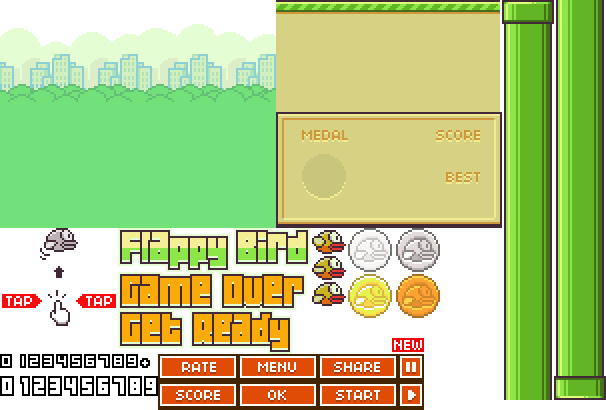
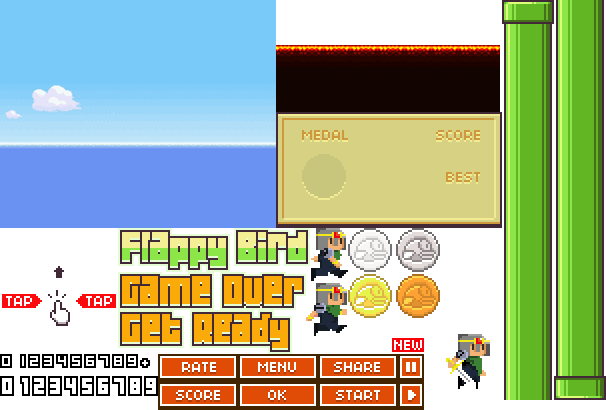
flappy game

diff --git a/index.html b/index.html
@@ -7,23 +7,270 @@
 		<meta name="apple-mobile-web-app-capable" content="yes" />
 		<meta name="mobile-web-app-capable" content="yes" />
 
-		<title>FlappyJS</title>
+		<title>Patrick JS Game</title>
 
 		<script src="sprite.js"></script>
 
 		<style>
-		canvas {
-			display: block;
-			position: absolute;
-			margin: auto;
-			top: 0;
-			bottom: 0;
-			left: 0;
-			right: 0;
-		}
+			body {
+				font-family: sans-serif;
+				color: #383838;
+			}
+
+			header h1, h2 {
+				text-align: center;
+			}
+
+			canvas {
+				display: block;
+				position: absolute;
+				margin: auto;
+				top: 0;
+				bottom: 0;
+				left: 0;
+				right: 0;
+			}
 		</style>
 	</head>
 	<body>
-		<script src="logic.js"></script>
+		<script>
+			var
+
+			canvas,
+			ctx,
+			width,
+			height,
+
+			fgPos = 0,
+			frames = 0,
+			score = 0,
+			best = localStorage.getItem("best") || 0,
+
+			currentState,
+			states = {
+				Splash: 0,
+				Game: 1,
+				Score: 2
+			},
+
+			okbtn,
+
+			bird = {
+
+				x: 50,
+				y: 0,
+
+				frame: 0,
+				velocity: 0,
+				animation: [0, 1],
+
+				rotation: 0,
+				radius: 20,
+
+				gravity: 0.25,
+				_jump: 4.8,
+
+				jump: function() {
+					this.velocity = -this._jump;
+				},
+
+				update: function() {
+			        var n = currentState === states.Splash ? 10 : 5;
+			        this.frame += frames % n === 0 ? 1 : 0;
+			        this.frame %= this.animation.length;
+
+			        if(currentState === states.Splash) {
+			            this.y = height - 400 + 5 * Math.cos(frames / 10);
+			            this.rotation = 0;
+			        } else {
+			        	this.velocity += this.gravity;
+			        	this.y += this.velocity;
+
+			        	if(this.y >= height - s_fg.height - 10) {
+			        		this.y = height - s_fg.height - 10;
+			        		if(currentState === states.Game) {
+			        			currentState = states.Score;
+			        		}
+			        		this.velocity = this._jump;
+			        	}
+
+			        	if(this.velocity >= this._jump) {
+			        		this.frame = 1;
+			        		// this.rotation = Math.min(Math.PI / 2, this.rotation + 0.1);	
+			        	} else {
+			        		this.rotation = -0.1;
+			        	}
+			        }
+				},
+
+				draw: function(ctx) {
+			        ctx.save();
+			        ctx.translate(this.x, this.y);
+			        ctx.rotate(this.rotation);
+
+			        var n = this.animation[this.frame];
+			        s_bird[n].draw(ctx, -s_bird[n].width / 2, s_bird[n].height / 2);
+
+			        ctx.fillStyle = "red";
+			        ctx.beginPath();
+			        ctx.arc(0, 0, this.radius, 0, 2 * Math.PI);
+			        ctx.stroke();
+			        ctx.fill();
+			        ctx.restore();
+				}
+			},
+
+			pipes = {
+
+				_pipes: [],
+
+				reset: function() {
+					this._pipes = [];
+				},
+
+				update: function() {
+					if(frames % 100 === 0) {
+						var _y = height - (s_pipeSouth.height + s_fg.height + 120 + 200 * Math.random());
+						this._pipes.push({
+							x: 500,
+							y: _y,
+							width: s_pipeSouth.width,
+							height: s_pipeSouth.height 
+						});
+					}
+
+					for(var i = 0, len = this._pipes.length; i < len; i++) {
+						var p = this._pipes[i];
+
+						if(i === 0) {
+							var cx = Math.min(Math.max(bird.x, p.x), p.x + p.width);
+							var cy1 = Math.min(Math.max(bird.y, p.y), p.y + p.height);
+							var cy2 = Math.min(Math.max(bird.y, p.y + p.height + 140), p.y + 2 * p.height + 140);
+
+							var dx = bird.x - cx;
+							var dy1 = bird.y - cy1;
+							var dy2 = bird.y - cy2;
+
+							var d1 = dx * dx + dy1 * dy1;
+							var d2 = dx * dx + dy2 * dy2;
+
+							var r = bird.radius * bird.radius;
+
+							if(r > d1 || r > d2) {
+								currentState = states.Score;
+							}
+						}
+
+						p.x -= 2;
+						if(p.x < -50) {
+							this._pipes.splice(i, 1);
+							i--;
+							len--;
+						}
+					}
+				},
+
+				draw: function(ctx) {
+					for(var i = 0, len = this._pipes.length; i < len; i++) {
+						var p = this._pipes[i];
+						s_pipeSouth.draw(ctx, p.x, p.y);
+						s_pipeNorth.draw(ctx, p.x, p.y + 140 + p.height);
+					}
+				}
+			};
+
+			function onPress(evt) {
+				switch(currentState) {
+					case states.Splash:
+						currentState = states.Game;
+						bird.jump();
+						break;
+					case states.Game:
+						bird.jump();
+						break;
+					case states.Score:
+						break;
+				}
+			}
+
+			function main() {
+				canvas = document.createElement("canvas");
+
+				width = window.innerWidth;
+				height = window.innerHeight;
+
+				var evt = "touchstart";
+
+				if(width >= 500) {
+					width = 320;
+					height = 480;
+					canvas.style.border = "1px solid #383838";
+					evt = "mousedown";
+				}
+
+				document.addEventListener(evt, onPress);
+
+				canvas.width = width;
+				canvas.height = height;
+				ctx = canvas.getContext("2d");
+
+			    currentState = states.Splash;
+
+				document.body.appendChild(canvas);
+
+				var img = new Image();
+				img.onload = function() {
+					initSprites(this);
+					ctx.fillStyle = s_bg.color;
+					run();
+				};
+				img.src = "res/sheet.png";
+			}
+
+			function run() {
+				var loop = function() {
+					update();
+					render();
+					window.requestAnimationFrame(loop, canvas);
+				};
+				window.requestAnimationFrame(loop, canvas);
+			}
+
+			function update() {
+				frames++;
+
+				if(currentState !== states.Score) {
+					fgPos = (fgPos - 2) % 16;
+				}
+
+				if(currentState === states.Game) {
+					pipes.update();
+				}
+
+			    bird.update();
+			}
+
+			function render() {
+				ctx.fillRect(0, 0, width, height);
+
+				s_bg.draw(ctx, 0, height - s_bg.height);
+				s_bg.draw(ctx, s_bg.width, height - s_bg.height);
+
+				bird.draw(ctx);
+			    pipes.draw(ctx);
+
+				s_fg.draw(ctx, fgPos, height - s_fg.height);
+				s_fg.draw(ctx, fgPos + s_fg.width, height - s_fg.height);
+
+			    var width2 = width / 2;
+
+			    if(currentState === states.Splash) {
+			    	s_splash.draw(ctx, width2 - s_splash.width / 2, height - 300);
+			    	s_text.GetReady.draw(ctx, width2 - s_text.GetReady.width / 2, height - 380);
+			    }
+			}
+
+			main();
+		</script>
 	</body>
 </html>

diff --git a/check.js b/check.js
@@ -1,0 +1,17 @@
+var words        = ["Aleksey", "Oleg", "Sergey", "Stas", "Greg"],
+	anotherWords = [" go to ", " speep to ", " most a ", " seet "],
+	endWords     = ["Theme - Lyteand eat.", "and cry.", "and watch tv."];
+
+var countWords    = words.length,
+	countAnWords  = anotherWords.length,
+	countEndWords = endWords.length;
+
+function random(min, max) {
+	return Math.floor((Math.random() * max) + min);
+}
+
+function getRandomPhrace(w1, w2, w3) {
+	return w1[random(0, countWords)] + w2[random(0, countAnWords)] + w3[random(0, countEndWords)];
+}
+
+console.log(getRandomPhrace(words, anotherWords, endWords));

diff --git a/sprite.js b/sprite.js
@@ -28,13 +28,12 @@ Sprite.prototype.draw = function(ctx, x, y) {
 function initSprites(img) {
 
 	s_bird = [
-		new Sprite(img, 156, 115, 17, 12),
-		new Sprite(img, 156, 128, 17, 12),
-		new Sprite(img, 156, 141, 17, 12)
+		new Sprite(img, 156, 115, 17, 26),
+		new Sprite(img, 156, 143, 17, 26)
 	];
 	
 	s_bg = new Sprite(img,   0, 0, 138, 114);
-	s_bg.color = "#70C5CF";
+	s_bg.color = "#87cef7";
 	s_fg = new Sprite(img, 138, 0, 112,  56);
 	
 	s_pipeNorth = new Sprite(img, 251, 0, 26, 200);

diff --git a/math.html b/math.html
@@ -1,0 +1,17 @@
+<!doctype html>
+<html lang="en">
+	<head>
+		<meta charset="utf-8" />
+		<title>Hello</title>
+	</head>
+	<body>
+		<header>
+			<h1>Hello</h1>
+		</header>
+
+		<article>
+			
+		</article>
+		<script src="check.js"></script>
+	</body>
+</html>

diff --git a/server.js b/server.js
@@ -1,0 +1,12 @@
+var express = require('express');
+var app = express();
+
+app.get("/", function(req, res) {
+    res.sendfile("index.html");
+});
+
+app.get('*');
+
+app.listen(3000, function() {
+    console.log('listen port 3000...');
+});
